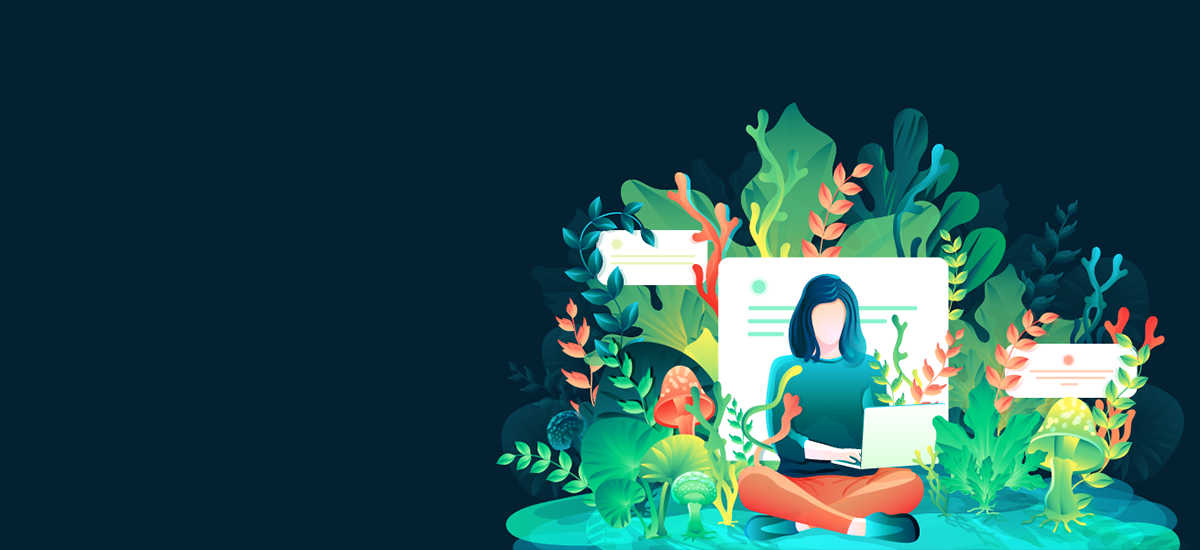
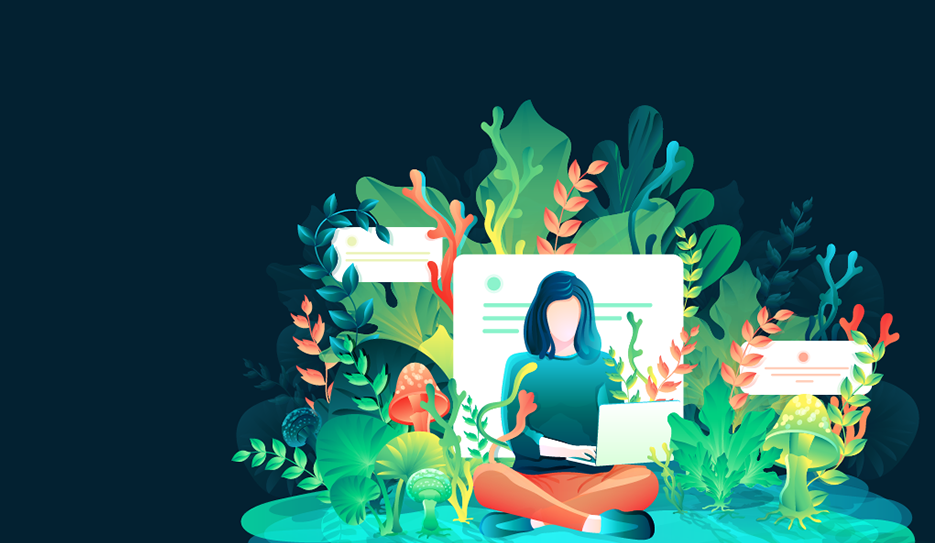
hero image and description added

diff --git a/index.html b/index.html
@@ -12,7 +12,7 @@
   </head>
   <body>
       <!-- start navbar -->
-      <nav class="navbar fixed-top navbar-expand-lg navbar-dark px-0">
+      <nav class="navbar fixed-top navbar-expand-lg navbar-dark container">
         <a class="navbar-brand" href="#">Eme</a>
         <button class="navbar-toggler" type="button" data-toggle="collapse" data-target="#navbarSupportedContent" aria-controls="navbarSupportedContent" aria-expanded="false" aria-label="Toggle navigation">
           <span class="navbar-toggler-icon"></span>
@@ -35,14 +35,24 @@
           </ul>
         </div>
     </nav><!-- finish navbar -->
-    <div >
-      <div class="hero">
-          <div class="text-white pt-5 mx-auto">
-              <p>Lorem ipsum dolor sit amet.</p>
-          </div>
+
+    <div class="hero pb-5">
+      <div class="container text-white py-5">
+            <div class="row pt-md-5">
+              <div class="col-5 pt-md-5">
+                <p class="h1">Bienvenid@, soy Mely</p>
+              <p>He creado este pequeño sitio web personal con el objetivo de poner en practica mis conocimientos de bootstrap y css recientemente adquiridos.
+                <br>Espero te agrede lo que ves y puedas conocerme un poco más.
+              </p>
+              <button class="btn btn-outline-light mb-5">HTMelon</button>
+              </div>
+            </div>             
       </div>
-   </div>
- 
+    </div>      
+
+
+   
+
 
     <!-- jQuery first, then Popper.js, then Bootstrap JS -->
     <script src="https://code.jquery.com/jquery-3.4.1.slim.min.js" integrity="sha384-J6qa4849blE2+poT4WnyKhv5vZF5SrPo0iEjwBvKU7imGFAV0wwj1yYfoRSJoZ+n" crossorigin="anonymous"></script>

diff --git a/dist/css/style.css b/dist/css/style.css
@@ -1,8 +1,7 @@
 .hero{
-    background-image: url('../../img/main-background.png');
     width: 100%; height:100%;
+    background-image: url('../../img/main-back.png');
     background-position: center;
     background-repeat: no-repeat;
     background-size: cover;
-    position: absolute;
 }
